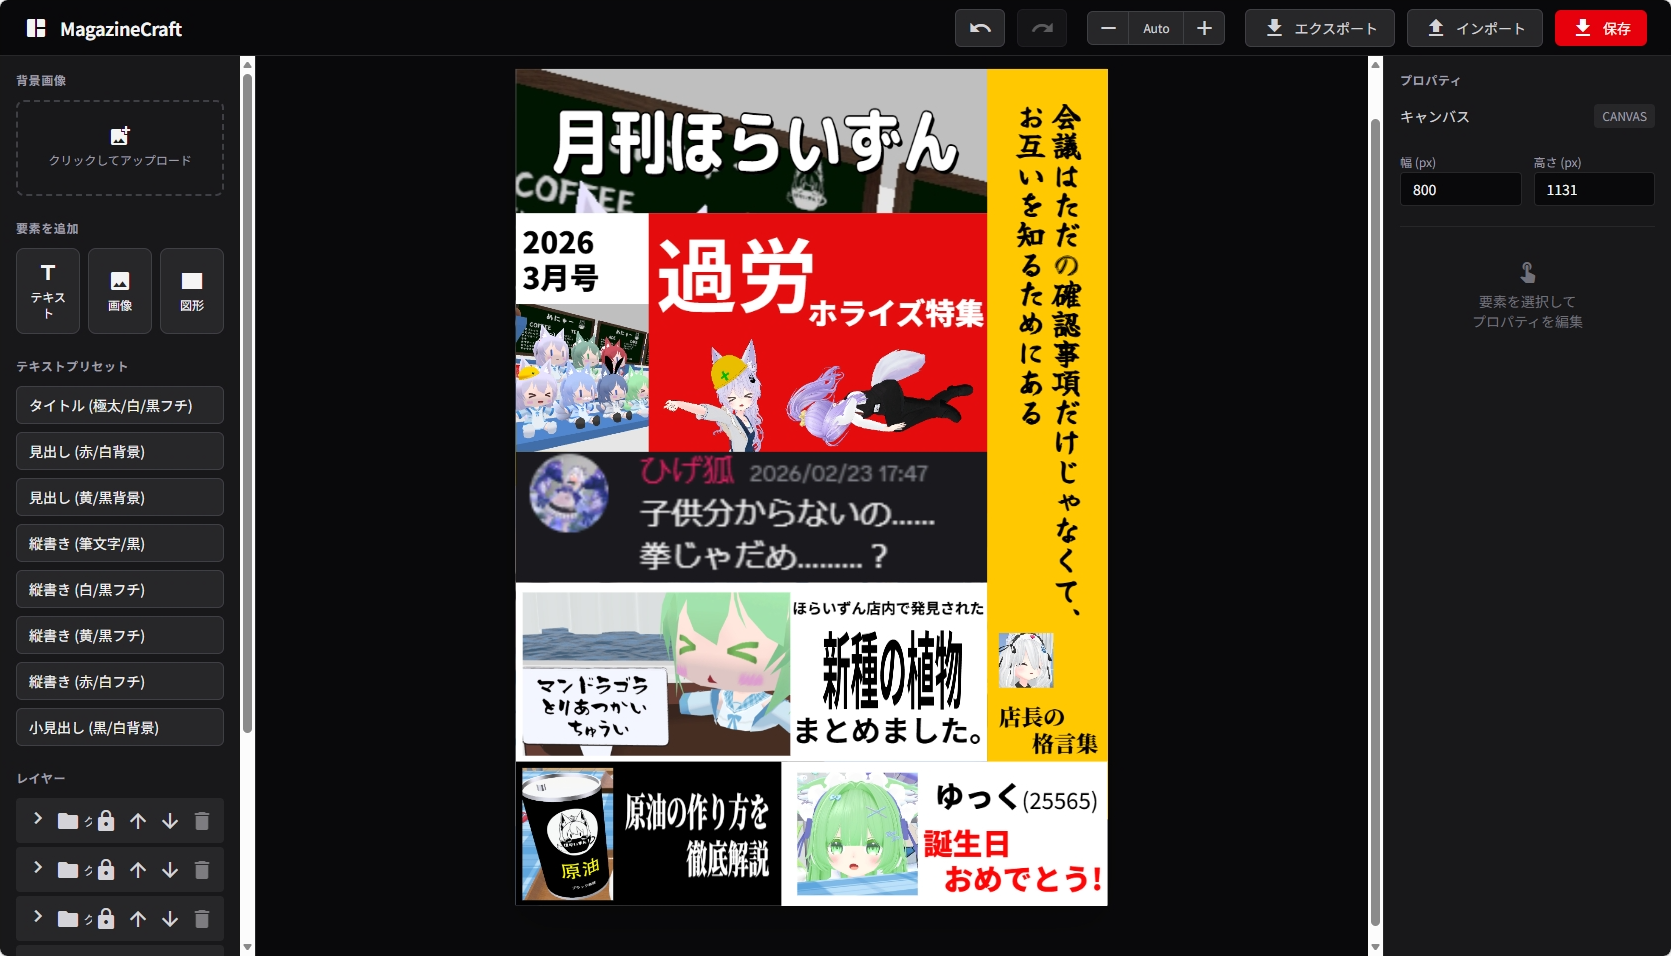
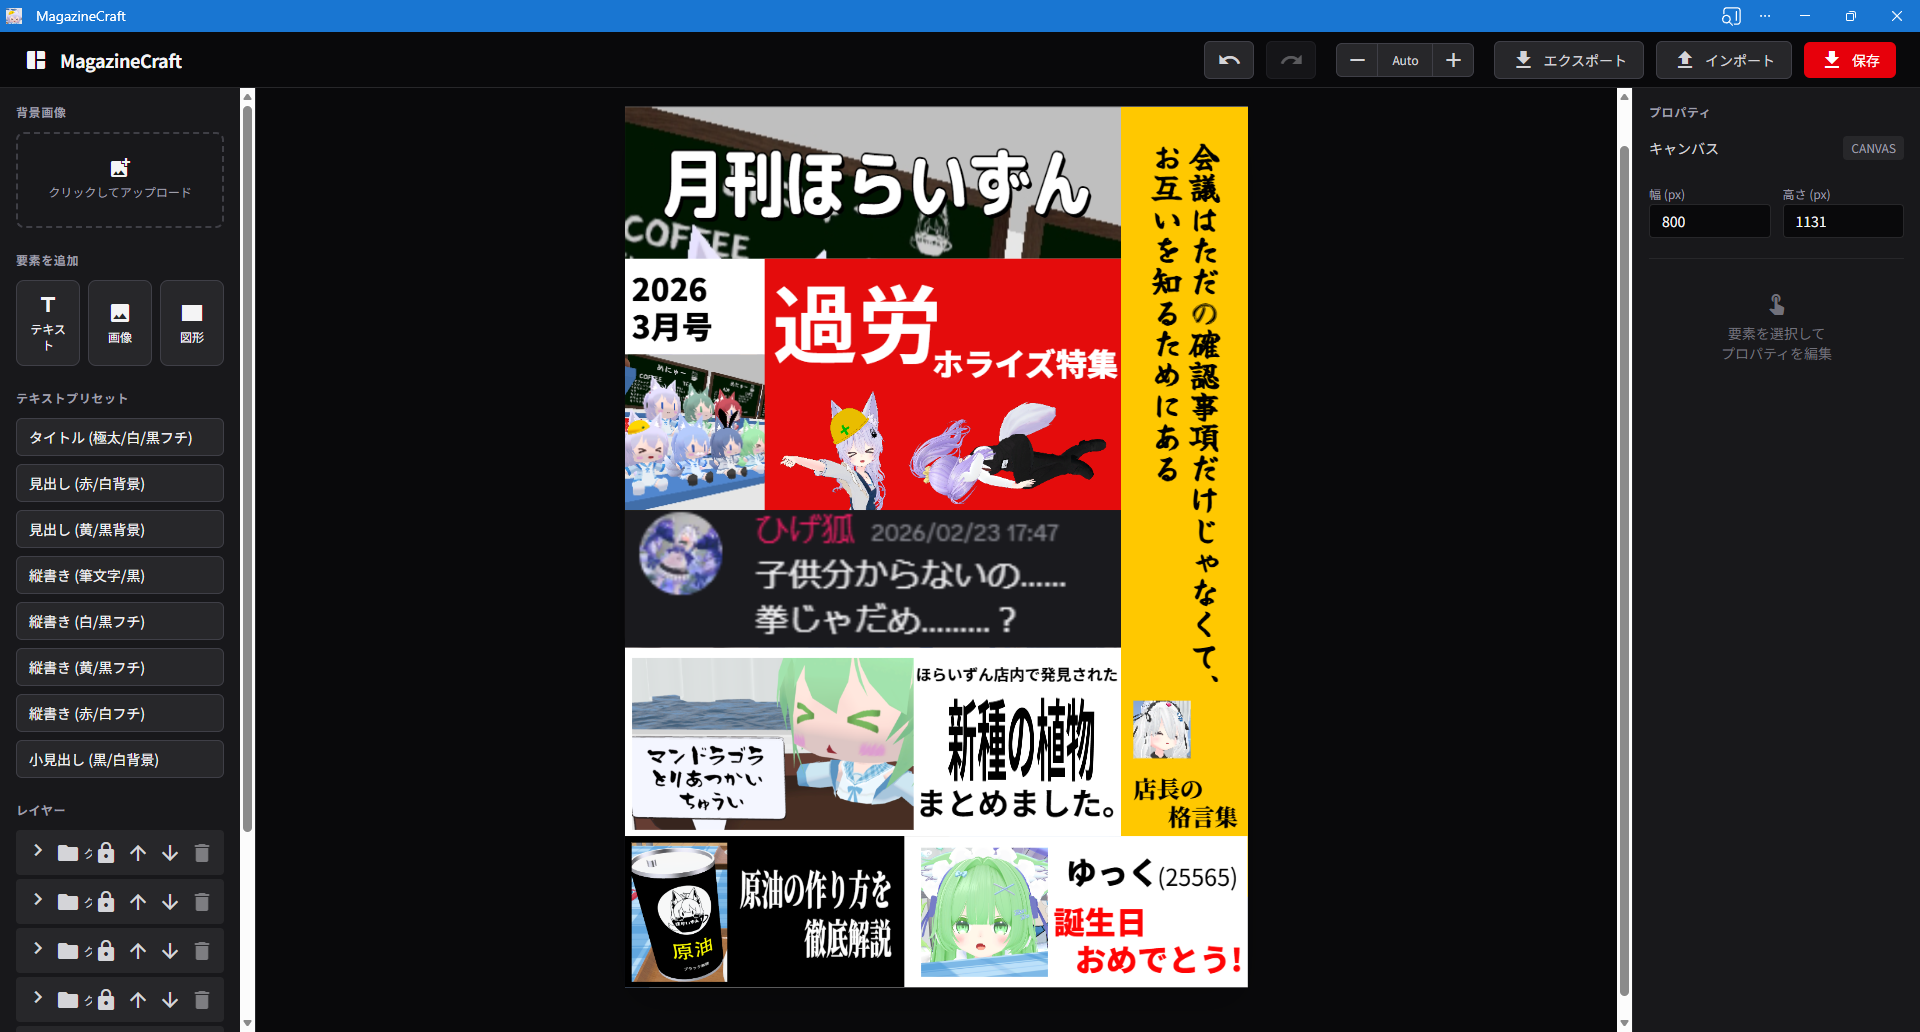
README.md に記載している スクリーンショットを更新 (#2)
* Update screenshot_1.webp

* Update README.md

Changed region(s): [[0.0, 0.0, 1.0, 1.0], [0.0, 0.0607, 0.1556, 1.0], [0.9647, 0.1213, 0.9958, 0.1517]]

diff --git a/README.md b/README.md
@@ -5,3 +5,5 @@
 欲しい機能がすべて揃っているアプリを見つけられなかったので作りました
 
 ![Screenshot](assets/screenshot_1.webp)
+
+ホライズちゃん かわいい
